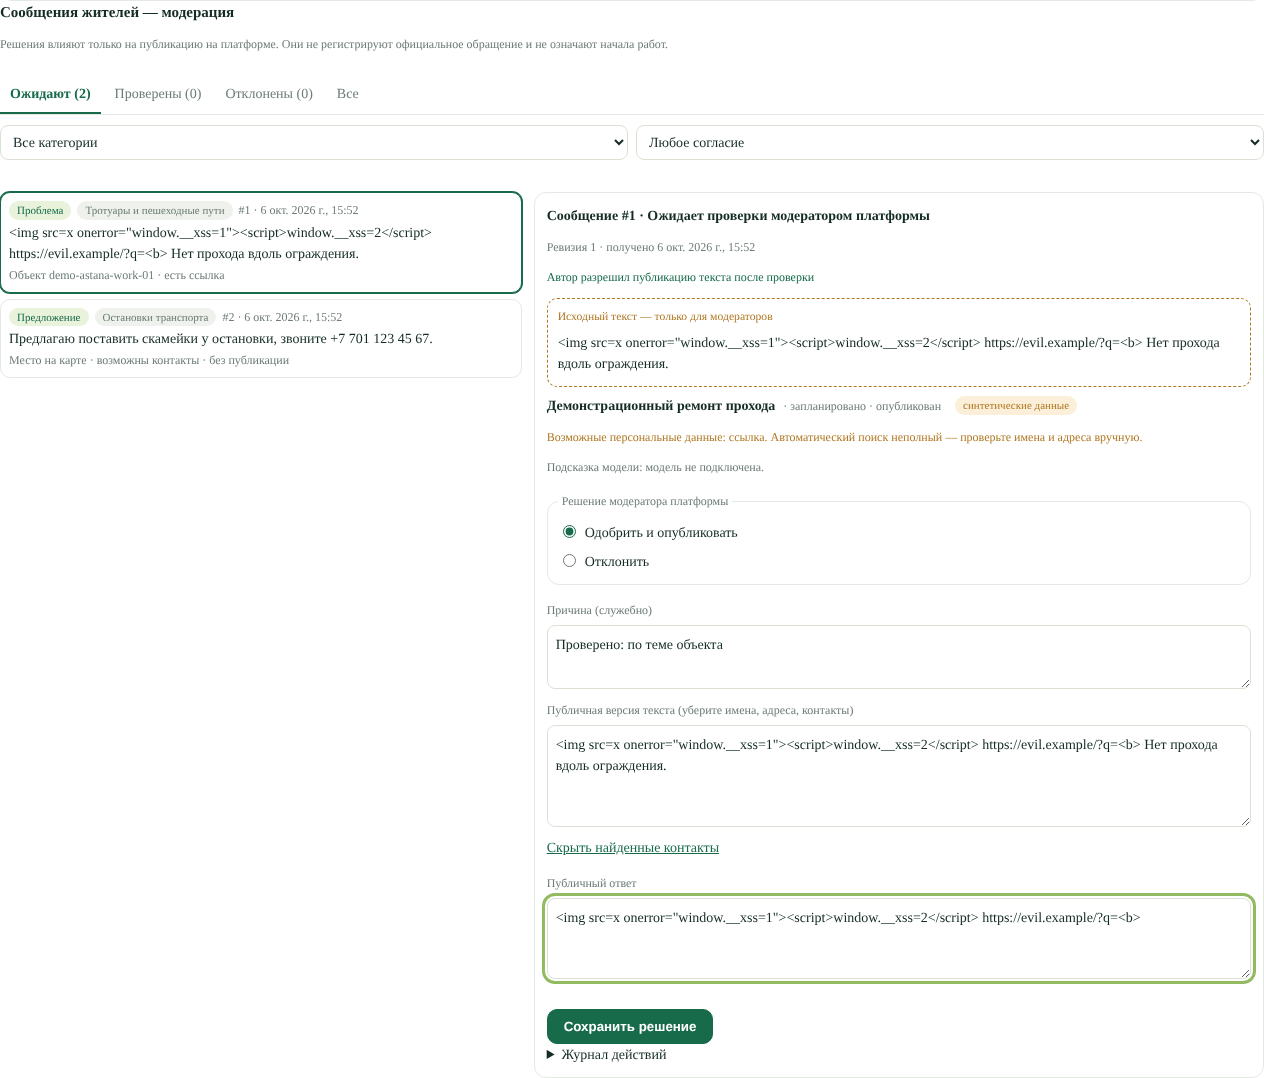
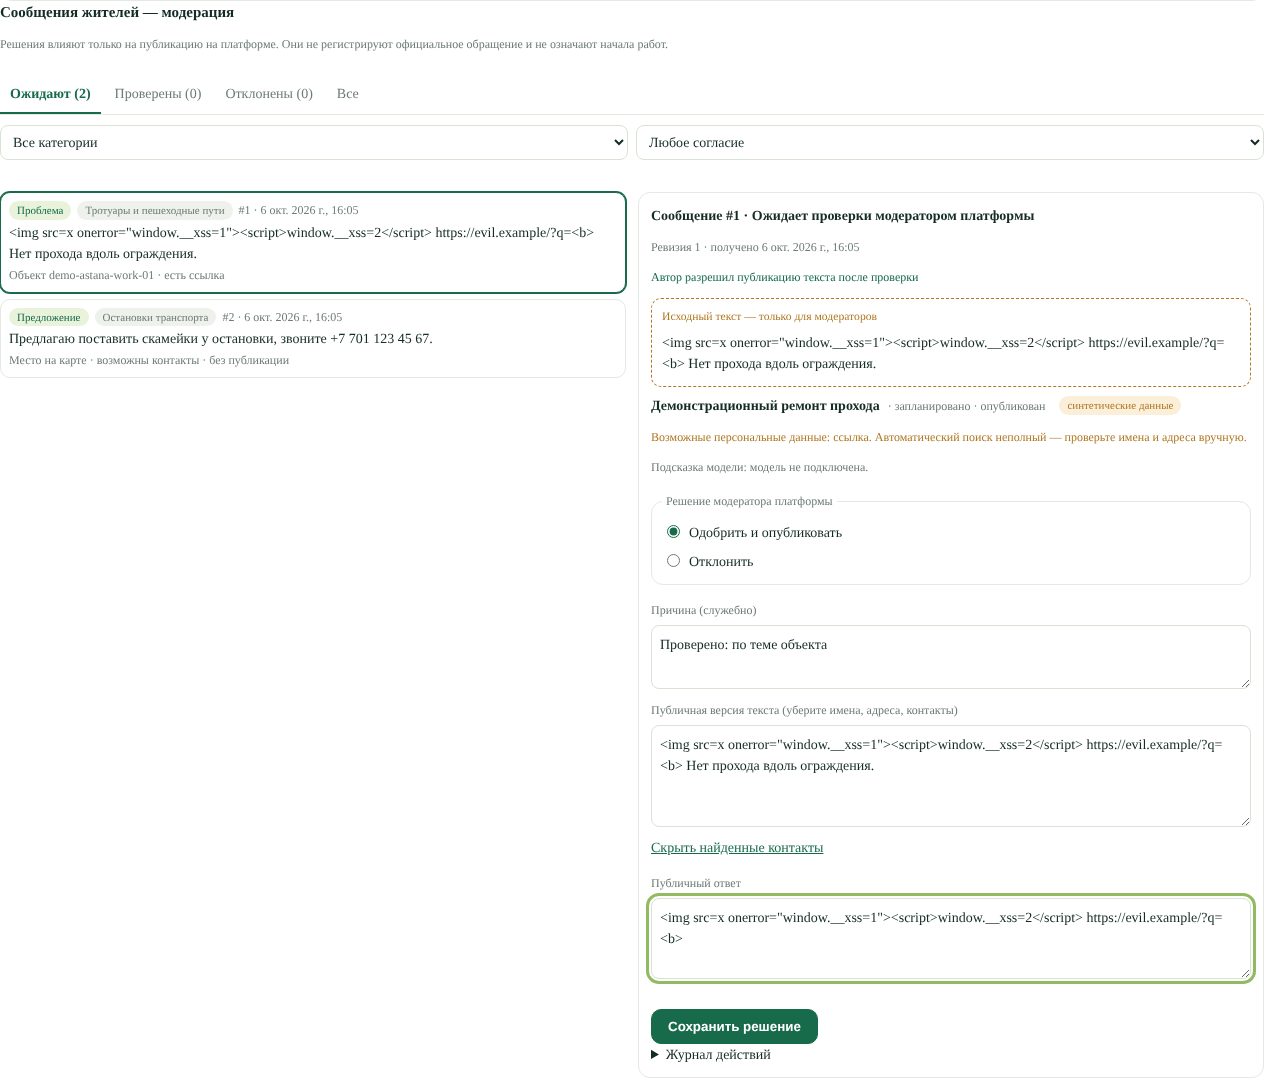
R06 checkpoint 8: tested R01 integration patch and full-app browser run
r01_integration.patch adds the R06 assets, three routes and a staff
moderation drawer to the R01 shell; app_e2e_r06.cjs drives the real R01
app with R02 and R06 in Chromium (9/9). The moderation grid now follows
container width so it fits the narrow R01 drawer.

Claude-Session: https://claude.ai/code/session_0174J38nGVR3wzvR514yKGjA

diff --git a/web/civic/feedback/feedback.css b/web/civic/feedback/feedback.css
@@ -104,7 +104,13 @@
 .civic-r06-tab[aria-selected="true"] { border-color: var(--r06-green); color: var(--r06-green); font-weight: 600; }
 .civic-r06-filters { display: flex; flex-wrap: wrap; gap: 8px; }
 .civic-r06-filters select { width: auto; flex: 1 1 160px; }
-.civic-r06-mod-body { display: grid; grid-template-columns: minmax(0, 1fr) minmax(0, 1.4fr); gap: 12px; align-items: start; }
+.civic-r06-mod-body {
+  display: grid;
+  /* Ширина контейнера, а не окна: в узкой панели R01 — одна колонка, на широком экране — две. */
+  grid-template-columns: repeat(auto-fit, minmax(min(100%, 320px), 1fr));
+  gap: 12px;
+  align-items: start;
+}
 .civic-r06-queue-item {
   display: grid;
   gap: 2px;
@@ -129,6 +135,5 @@
 .civic-r06-history li { padding: 4px 0; border-top: 1px solid var(--r06-line); font-size: 12px; }
 .civic-r06-marker { width: 18px; height: 18px; border-radius: 50%; background: var(--r06-amber, #b07823); border: 3px solid #fff; box-shadow: 0 1px 6px #0004; }
 @media (max-width: 720px) {
-  .civic-r06-mod-body { grid-template-columns: 1fr; }
   .civic-r06-primary { width: 100%; justify-self: stretch; }
 }

diff --git a/web/civic/feedback/feedback.js b/web/civic/feedback/feedback.js
@@ -638,7 +638,12 @@
           el("span", { className: P + "-excerpt", text: item.text }),
           el("span", { className: P + "-muted", text: (item.object_id ? "Объект " + item.object_id : "Место на карте") + (flags.length ? " · " + flags.join(" · ") : "") }),
         ]);
-        on(button, "click", function () { select(item.id); });
+        on(button, "click", function () {
+          select(item.id);
+          // В одной колонке карточка ниже списка — показать её.
+          if (detail.scrollIntoView && detail.getBoundingClientRect().top > list.getBoundingClientRect().bottom - 1)
+            detail.scrollIntoView({ block: "start", behavior: "smooth" });
+        });
         list.appendChild(el("li", {}, [button]));
       });
     }

diff --git a/research/handoffs/astana/R06/round-11/STATUS.md b/research/handoffs/astana/R06/round-11/STATUS.md
@@ -8,7 +8,7 @@
 - Собственные пути: `ui/civic_feedback/`, `web/civic/feedback/`, `tests/civic/R06/`,
   `research/round-11-results/R06/`, `research/handoffs/astana/R06/round-11/STATUS.md`
 
-## Статус: DONE (обязательная часть) — checkpoint 7
+## Статус: DONE (обязательная часть) — checkpoint 8
 
 Сделано:
 - `ui/civic_feedback/service.py` — `FeedbackService(db_path, object_lookup, clock=None)`,
@@ -37,6 +37,10 @@
 - С 36a0604 R06 (как R02) обслуживает только полный путь `/api/civic/v1/...`.
 - Stretch: CLI `python -m ui.civic_feedback stats|purge-antispam`; совместимость с onFeedback R03
   (геометрия объекта не путается с местом); фильтры очереди и счётчик pending уже были.
+- `research/round-11-results/R06/r01_integration.patch` (против R01@eef5a7b, 3 файла R01): статика,
+  3 маршрута, панель «Сообщения жителей» с mountModeration. Проверено в настоящем приложении R01
+  (`tests/civic/R06/app_e2e_r06.cjs`, Chromium) → 9/9 PASS; снимки `screenshots/r06_app_*.png`.
+  Снимок выявил сжатие очереди в узкой панели → сетка теперь по ширине контейнера (auto-fit).
 
 Проверки:
 - `python3 -m pytest tests/civic/R06 -q` → 129 passed, 2 skipped (PASS; skip = нет R01/R02 в ветке)
@@ -52,4 +56,4 @@
 
 Не запускалось: сборка R01 с картой R03 и кабинетом R04 (не объединены); R08 нет в GitHub.
 
-Следующий шаг (R01): импорт путей R06, 3 маршрута из INTEGRATION §2, mountModeration в кабинете. R06: при появлении R08 — прогон с настоящим classify.
+Следующий шаг (R01): импорт путей R06 + `git apply research/round-11-results/R06/r01_integration.patch`, затем app_e2e_r06.cjs на CODE_SHA. R06: при появлении R08 — прогон с настоящим classify.
